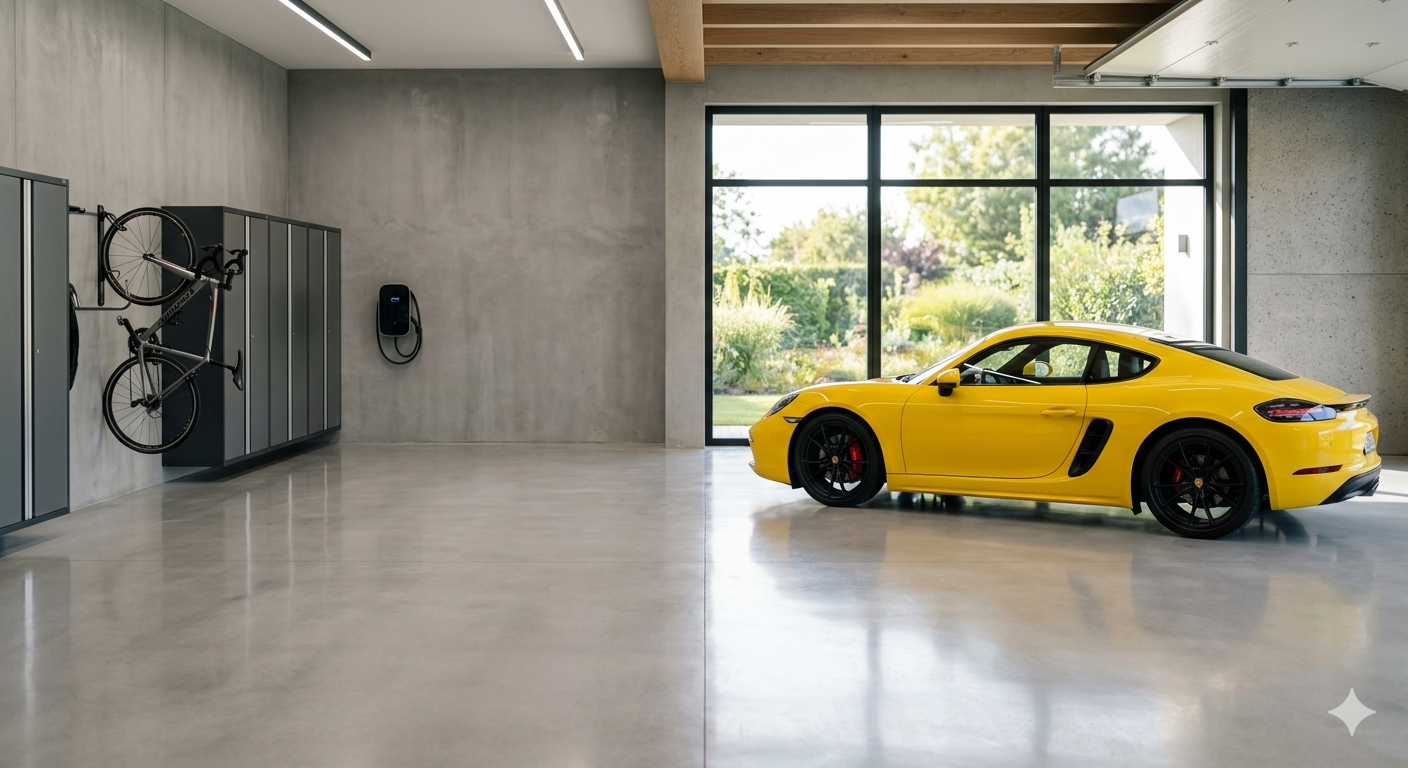
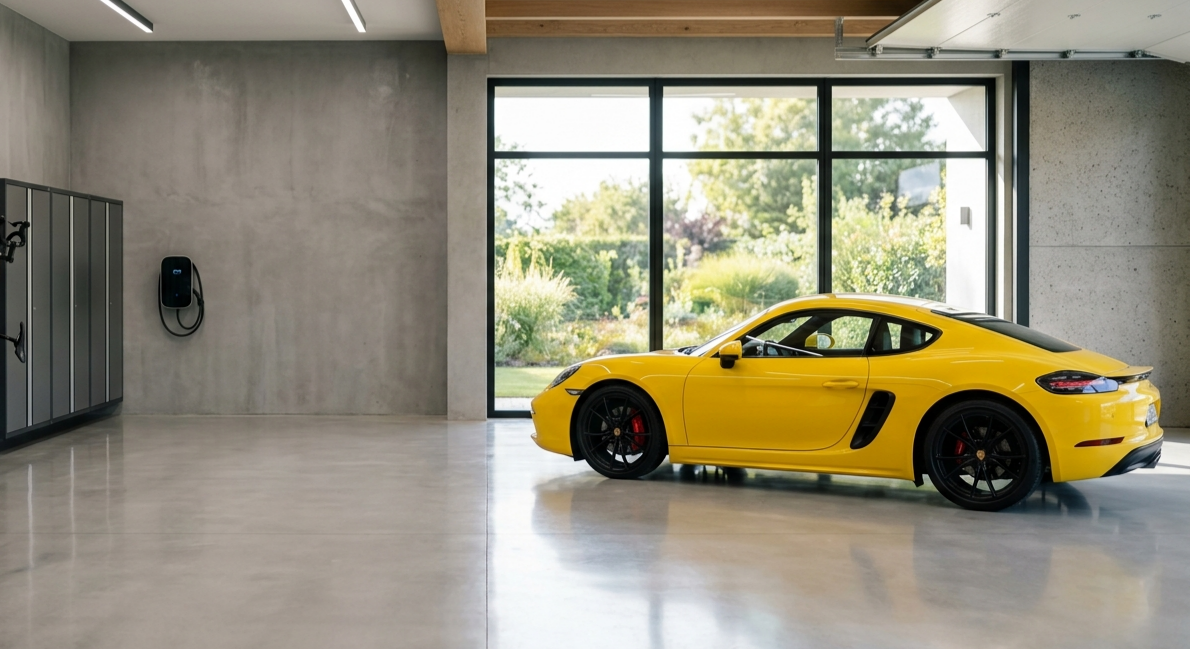
annotation change

diff --git a/index.html b/index.html
@@ -11,7 +11,7 @@
         body {
             font-family: 'Segoe UI', Tahoma, Geneva, Verdana, sans-serif;
             /* 1. Set background image */
-            background: url('porsche.png') no-repeat center center fixed;
+            background: url('porsche.png.png') no-repeat center center fixed;
             background-size: cover;
             color: #333;
             min-height: 100vh;
@@ -24,13 +24,12 @@
             backdrop-filter: blur(5px);
         }
 
-        /* 修改后的页眉容器样式 */
         .header-container {
             max-width: 1200px;
             margin: 0 auto;
             padding: 0 20px;
             display: flex;
-            justify-content: space-between; /* 使标题靠左，导航靠右 */
+            justify-content: space-between; 
             align-items: center;
         }
 
@@ -38,7 +37,6 @@
             max-width: 1200px;
             margin: 0 auto;
             padding: 0 20px;
-            /* 表单主体依然保持左对齐 */
             display: flex;
             justify-content: flex-start; 
             align-items: center;
@@ -135,7 +133,7 @@
         </div>
     </header>
 
-    <main class="container">
+    <main class="container" style="min-height: auto; justify-content: space-between;" >
         <section class="form-wrapper">
             <h2>List Your Vehicle</h2>
             <p class="subtitle">Provide details to help buyers find your car quickly.</p>

diff --git a/styles.css b/styles.css
@@ -19,7 +19,7 @@
 
 body {
     font-family: 'Segoe UI', Tahoma, Geneva, Verdana, sans-serif;
-    background: url('"D:\Users\Lucas\Documents\GitHub\Delivery-2\porsche.png.png"') no-repeat center center fixed;
+    background: url('porsche.png.png') no-repeat center center fixed;
     background-size: cover;
     color: #333;
     min-height: 100vh;
